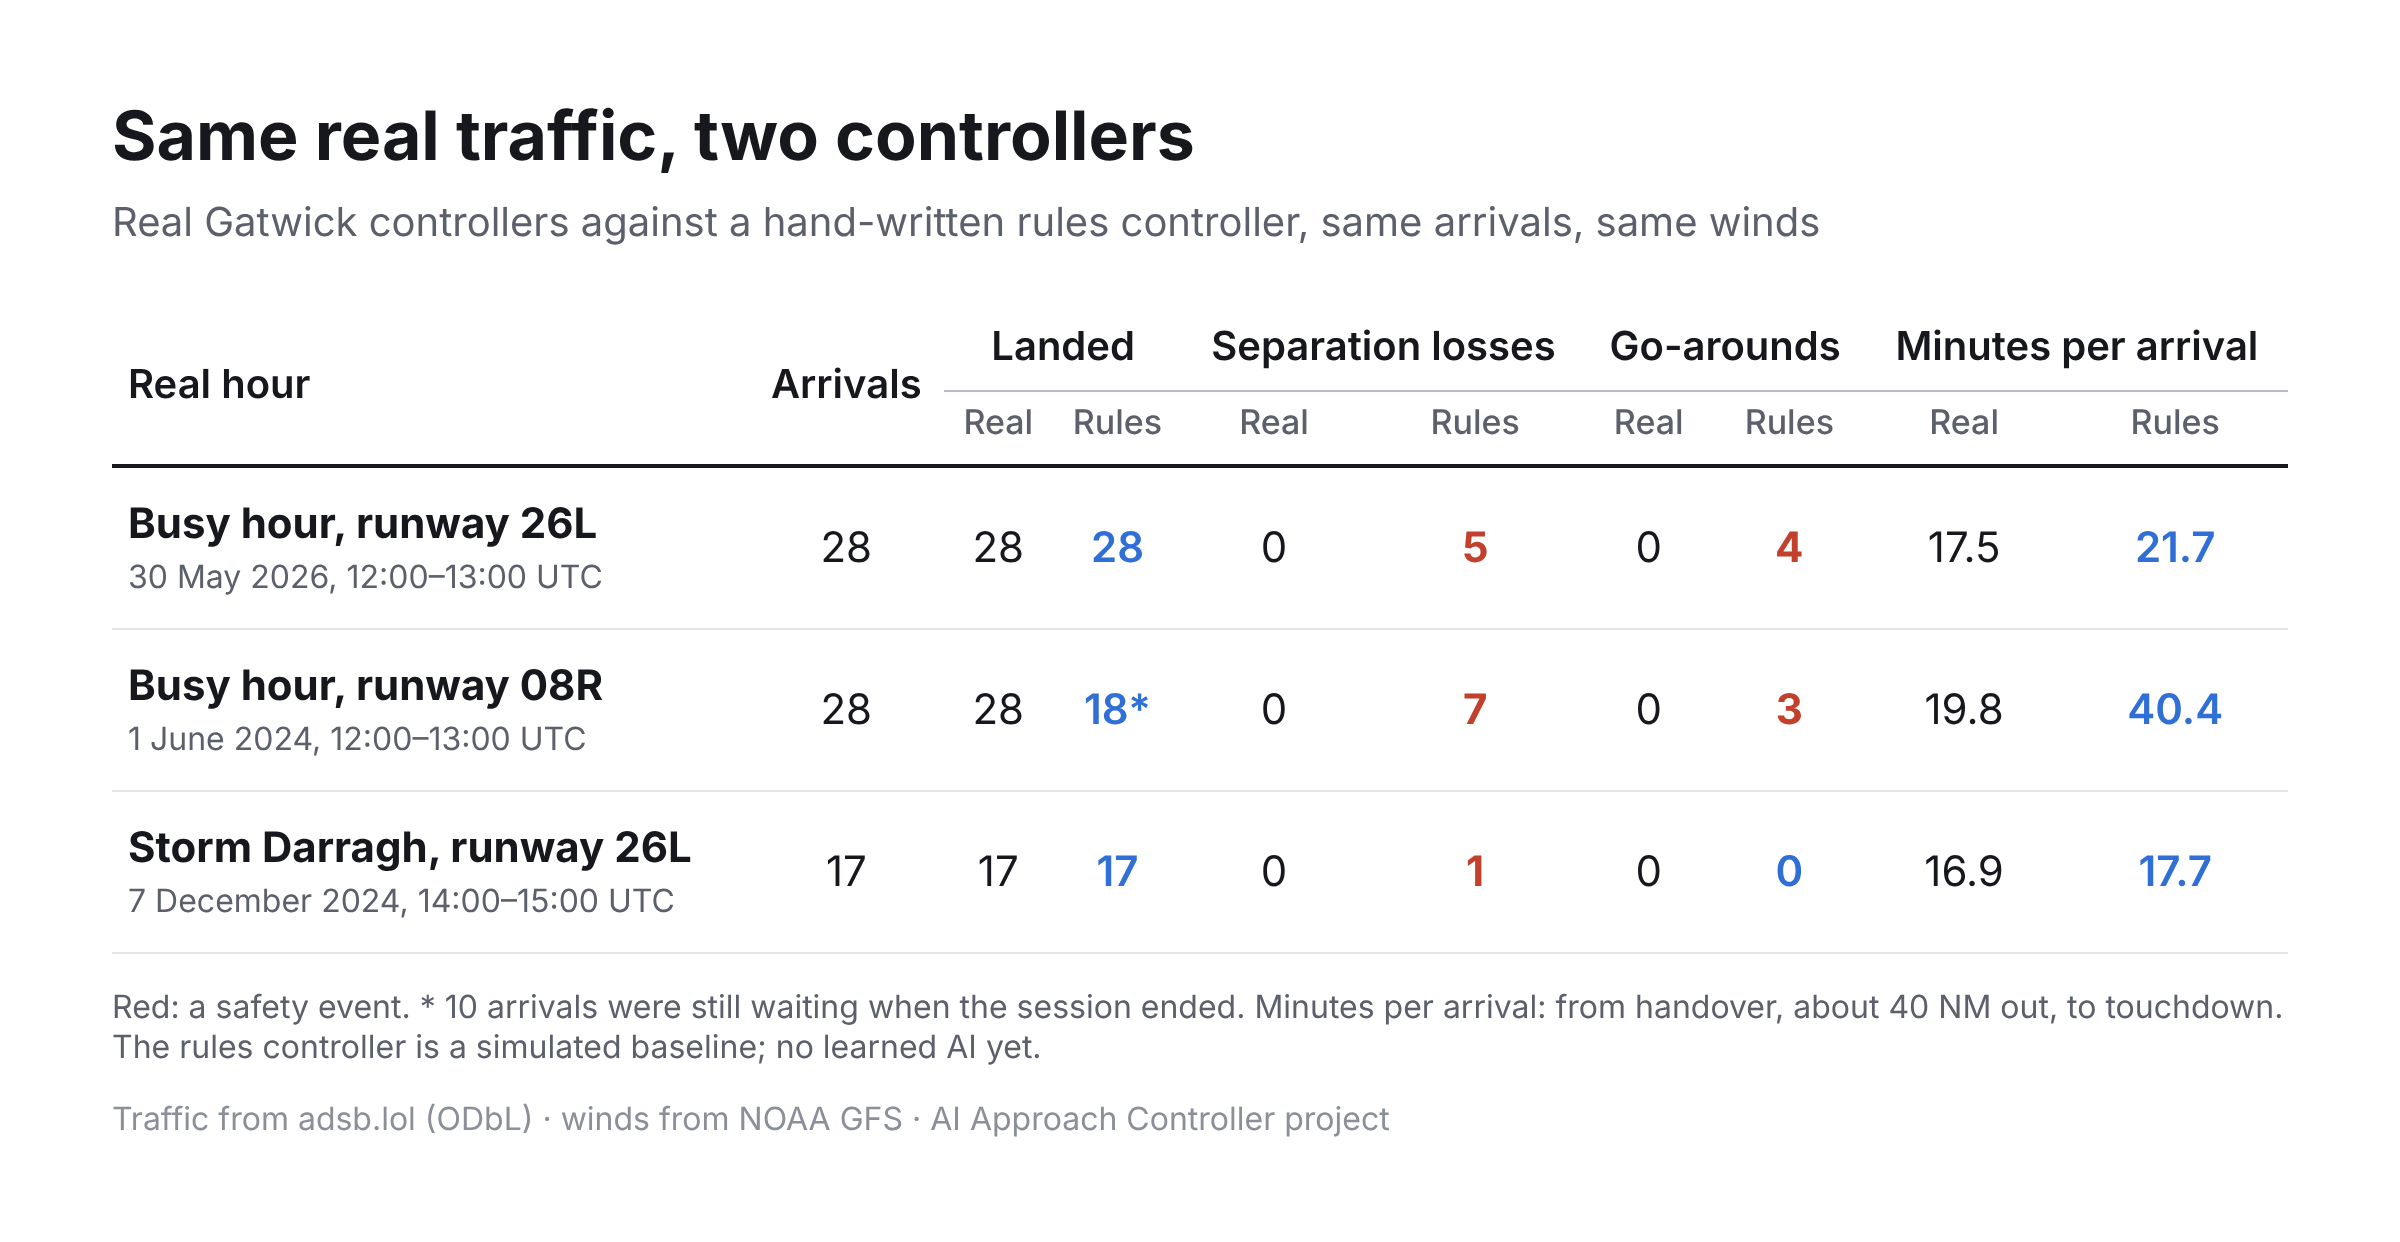
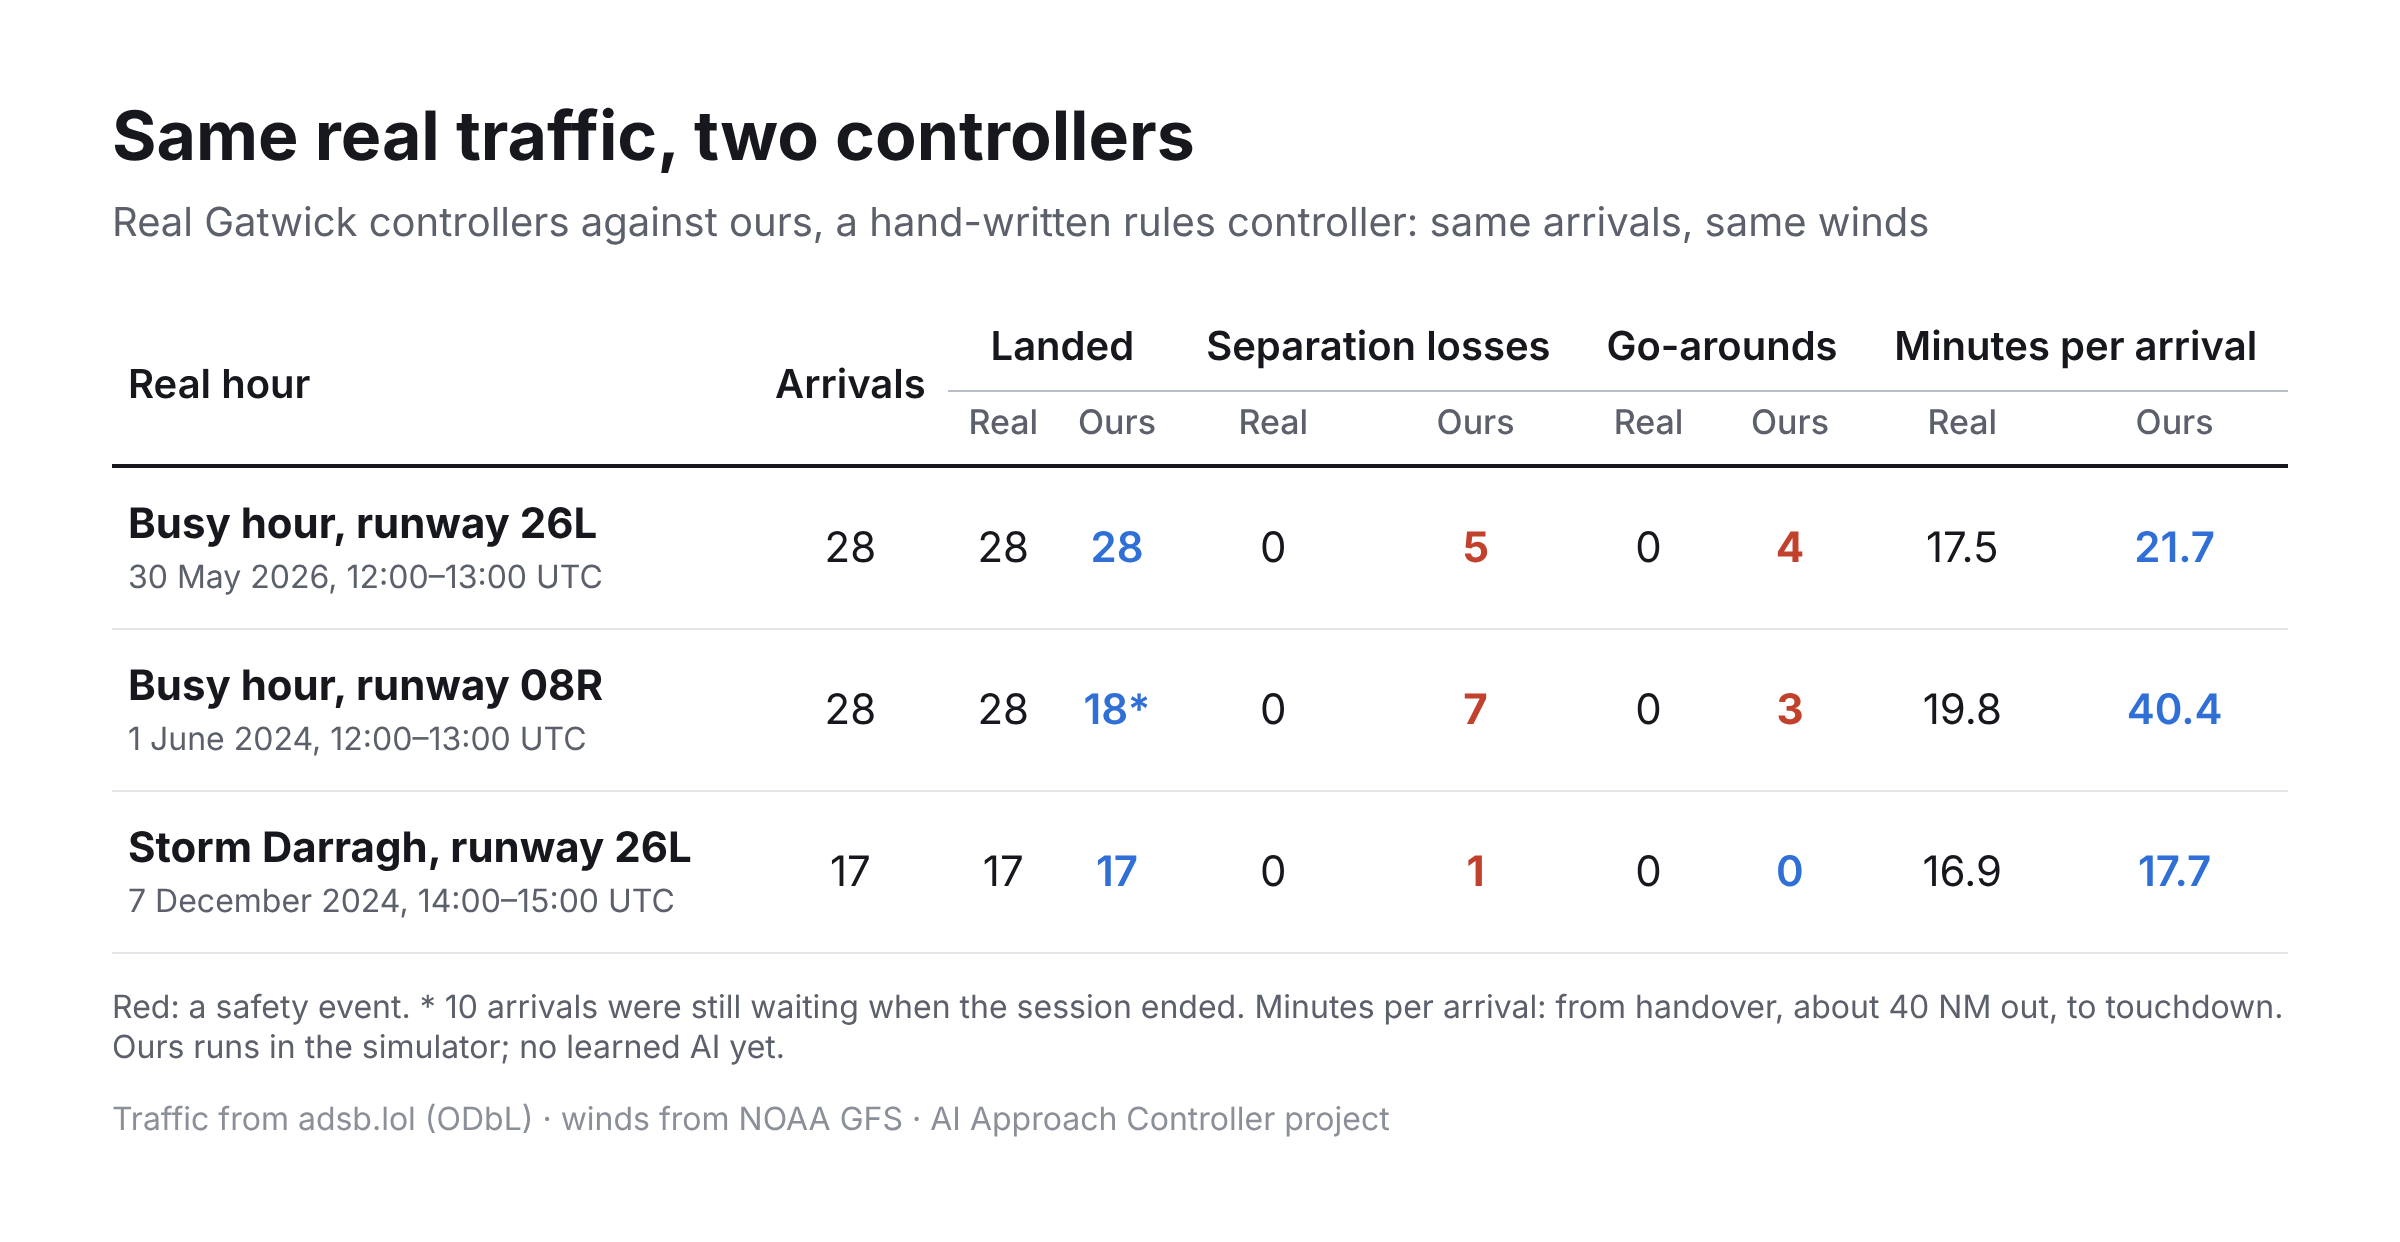
Status report table: our rules controller's columns labelled "Ours"
Claude-Session: https://claude.ai/code/session_01KaEFS3aJqsiCuddtZYH4rg

diff --git a/docs/status-report-2026-11/comparison.html b/docs/status-report-2026-11/comparison.html
@@ -18,11 +18,11 @@ td.bad{color:#c2412d;font-weight:700}
 .gap{border-left:12px solid #fff}
 </style></head><body><div class="wrap">
 <h1>Same real traffic, two controllers</h1>
-<p class="sub">Real Gatwick controllers against a hand-written rules controller, same arrivals, same winds</p>
+<p class="sub">Real Gatwick controllers against ours, a hand-written rules controller: same arrivals, same winds</p>
 <table><thead>
 <tr class="group"><th class="left" rowspan="2">Real hour</th><th rowspan="2">Arrivals</th><th colspan="2">Landed</th><th colspan="2">Separation losses</th><th colspan="2">Go-arounds</th><th colspan="2">Minutes per arrival</th></tr>
-<tr class="who"><th>Real</th><th>Rules</th><th>Real</th><th>Rules</th><th>Real</th><th>Rules</th><th>Real</th><th>Rules</th></tr>
+<tr class="who"><th>Real</th><th>Ours</th><th>Real</th><th>Ours</th><th>Real</th><th>Ours</th><th>Real</th><th>Ours</th></tr>
 </thead><tbody><tr><td class="left"><b>Busy hour, runway 26L</b><span class="when">30 May 2026, 12:00–13:00 UTC</span></td><td>28</td><td class="real">28</td><td class="rules">28</td><td class="real">0</td><td class="bad">5</td><td class="real">0</td><td class="bad">4</td><td class="real">17.5</td><td class="rules">21.7</td></tr><tr><td class="left"><b>Busy hour, runway 08R</b><span class="when">1 June 2024, 12:00–13:00 UTC</span></td><td>28</td><td class="real">28</td><td class="rules">18*</td><td class="real">0</td><td class="bad">7</td><td class="real">0</td><td class="bad">3</td><td class="real">19.8</td><td class="rules">40.4</td></tr><tr><td class="left"><b>Storm Darragh, runway 26L</b><span class="when">7 December 2024, 14:00–15:00 UTC</span></td><td>17</td><td class="real">17</td><td class="rules">17</td><td class="real">0</td><td class="bad">1</td><td class="real">0</td><td class="rules">0</td><td class="real">16.9</td><td class="rules">17.7</td></tr></tbody></table>
-<p class="note">Red: a safety event. * 10 arrivals were still waiting when the session ended. Minutes per arrival: from handover, about 40 NM out, to touchdown. The rules controller is a simulated baseline; no learned AI yet.</p>
+<p class="note">Red: a safety event. * 10 arrivals were still waiting when the session ended. Minutes per arrival: from handover, about 40 NM out, to touchdown. Ours runs in the simulator; no learned AI yet.</p>
 <p class="src">Traffic from adsb.lol (ODbL) · winds from NOAA GFS · AI Approach Controller project</p>
 </div></body></html>
